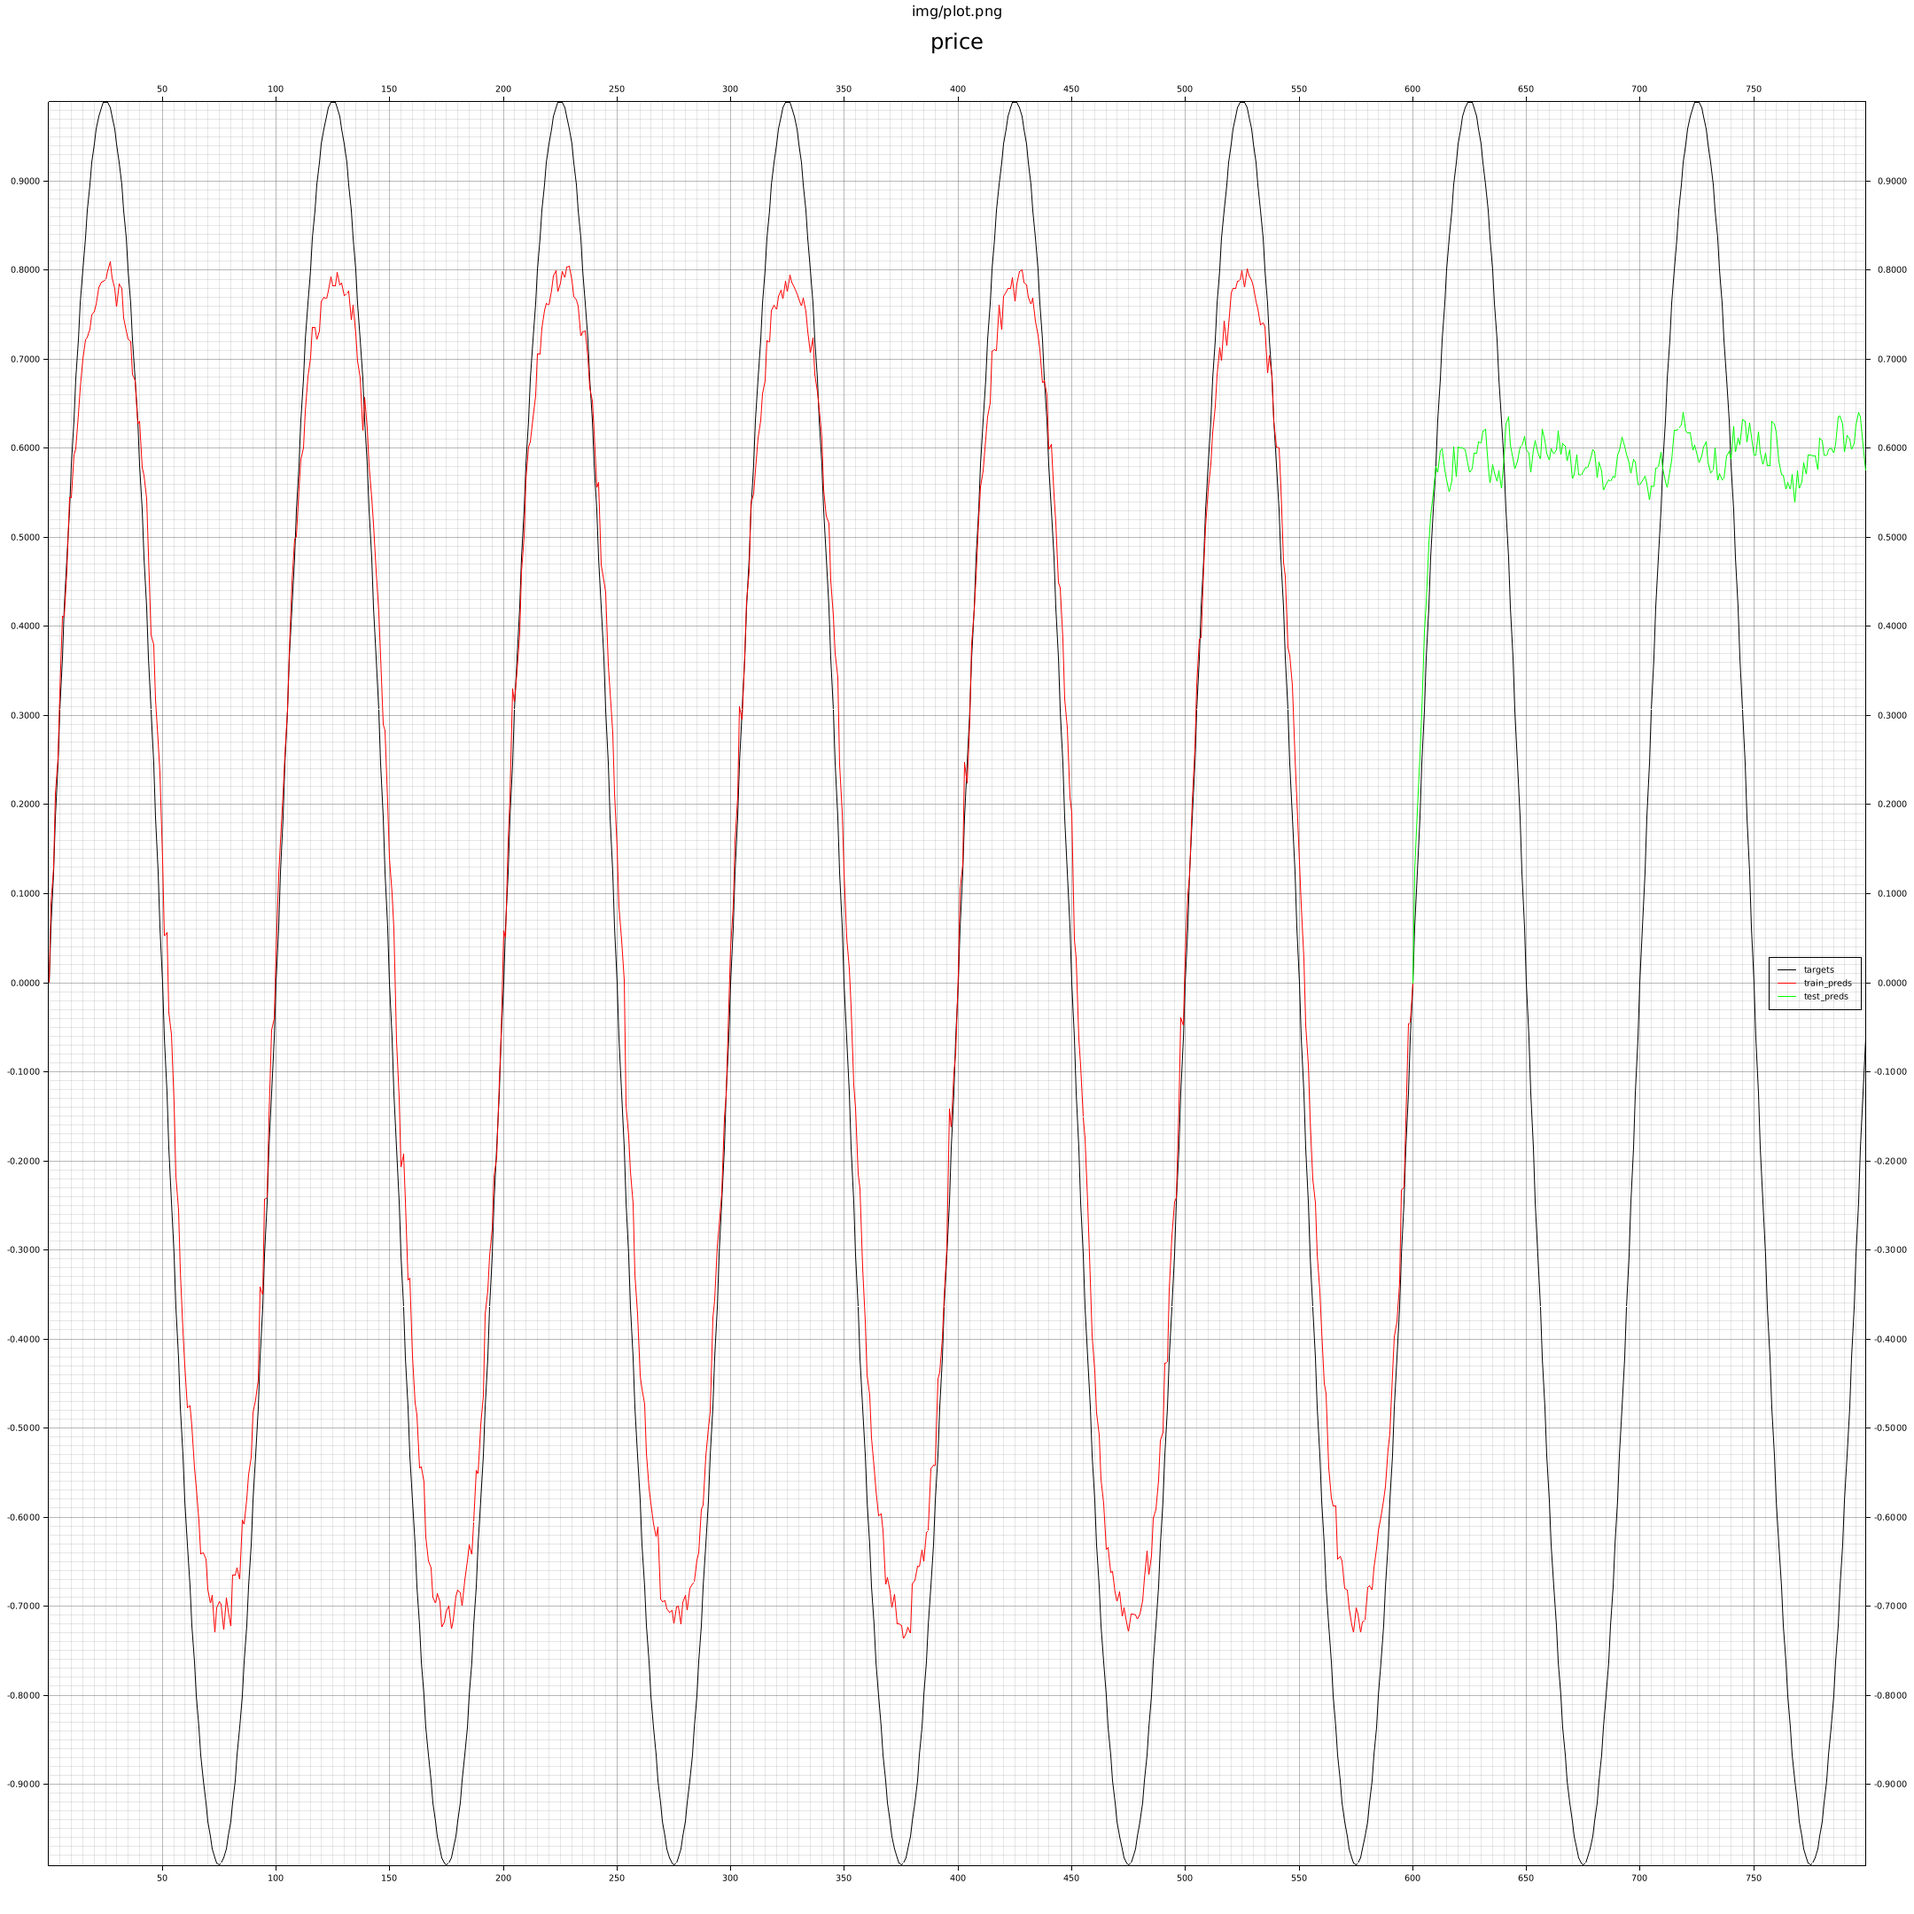
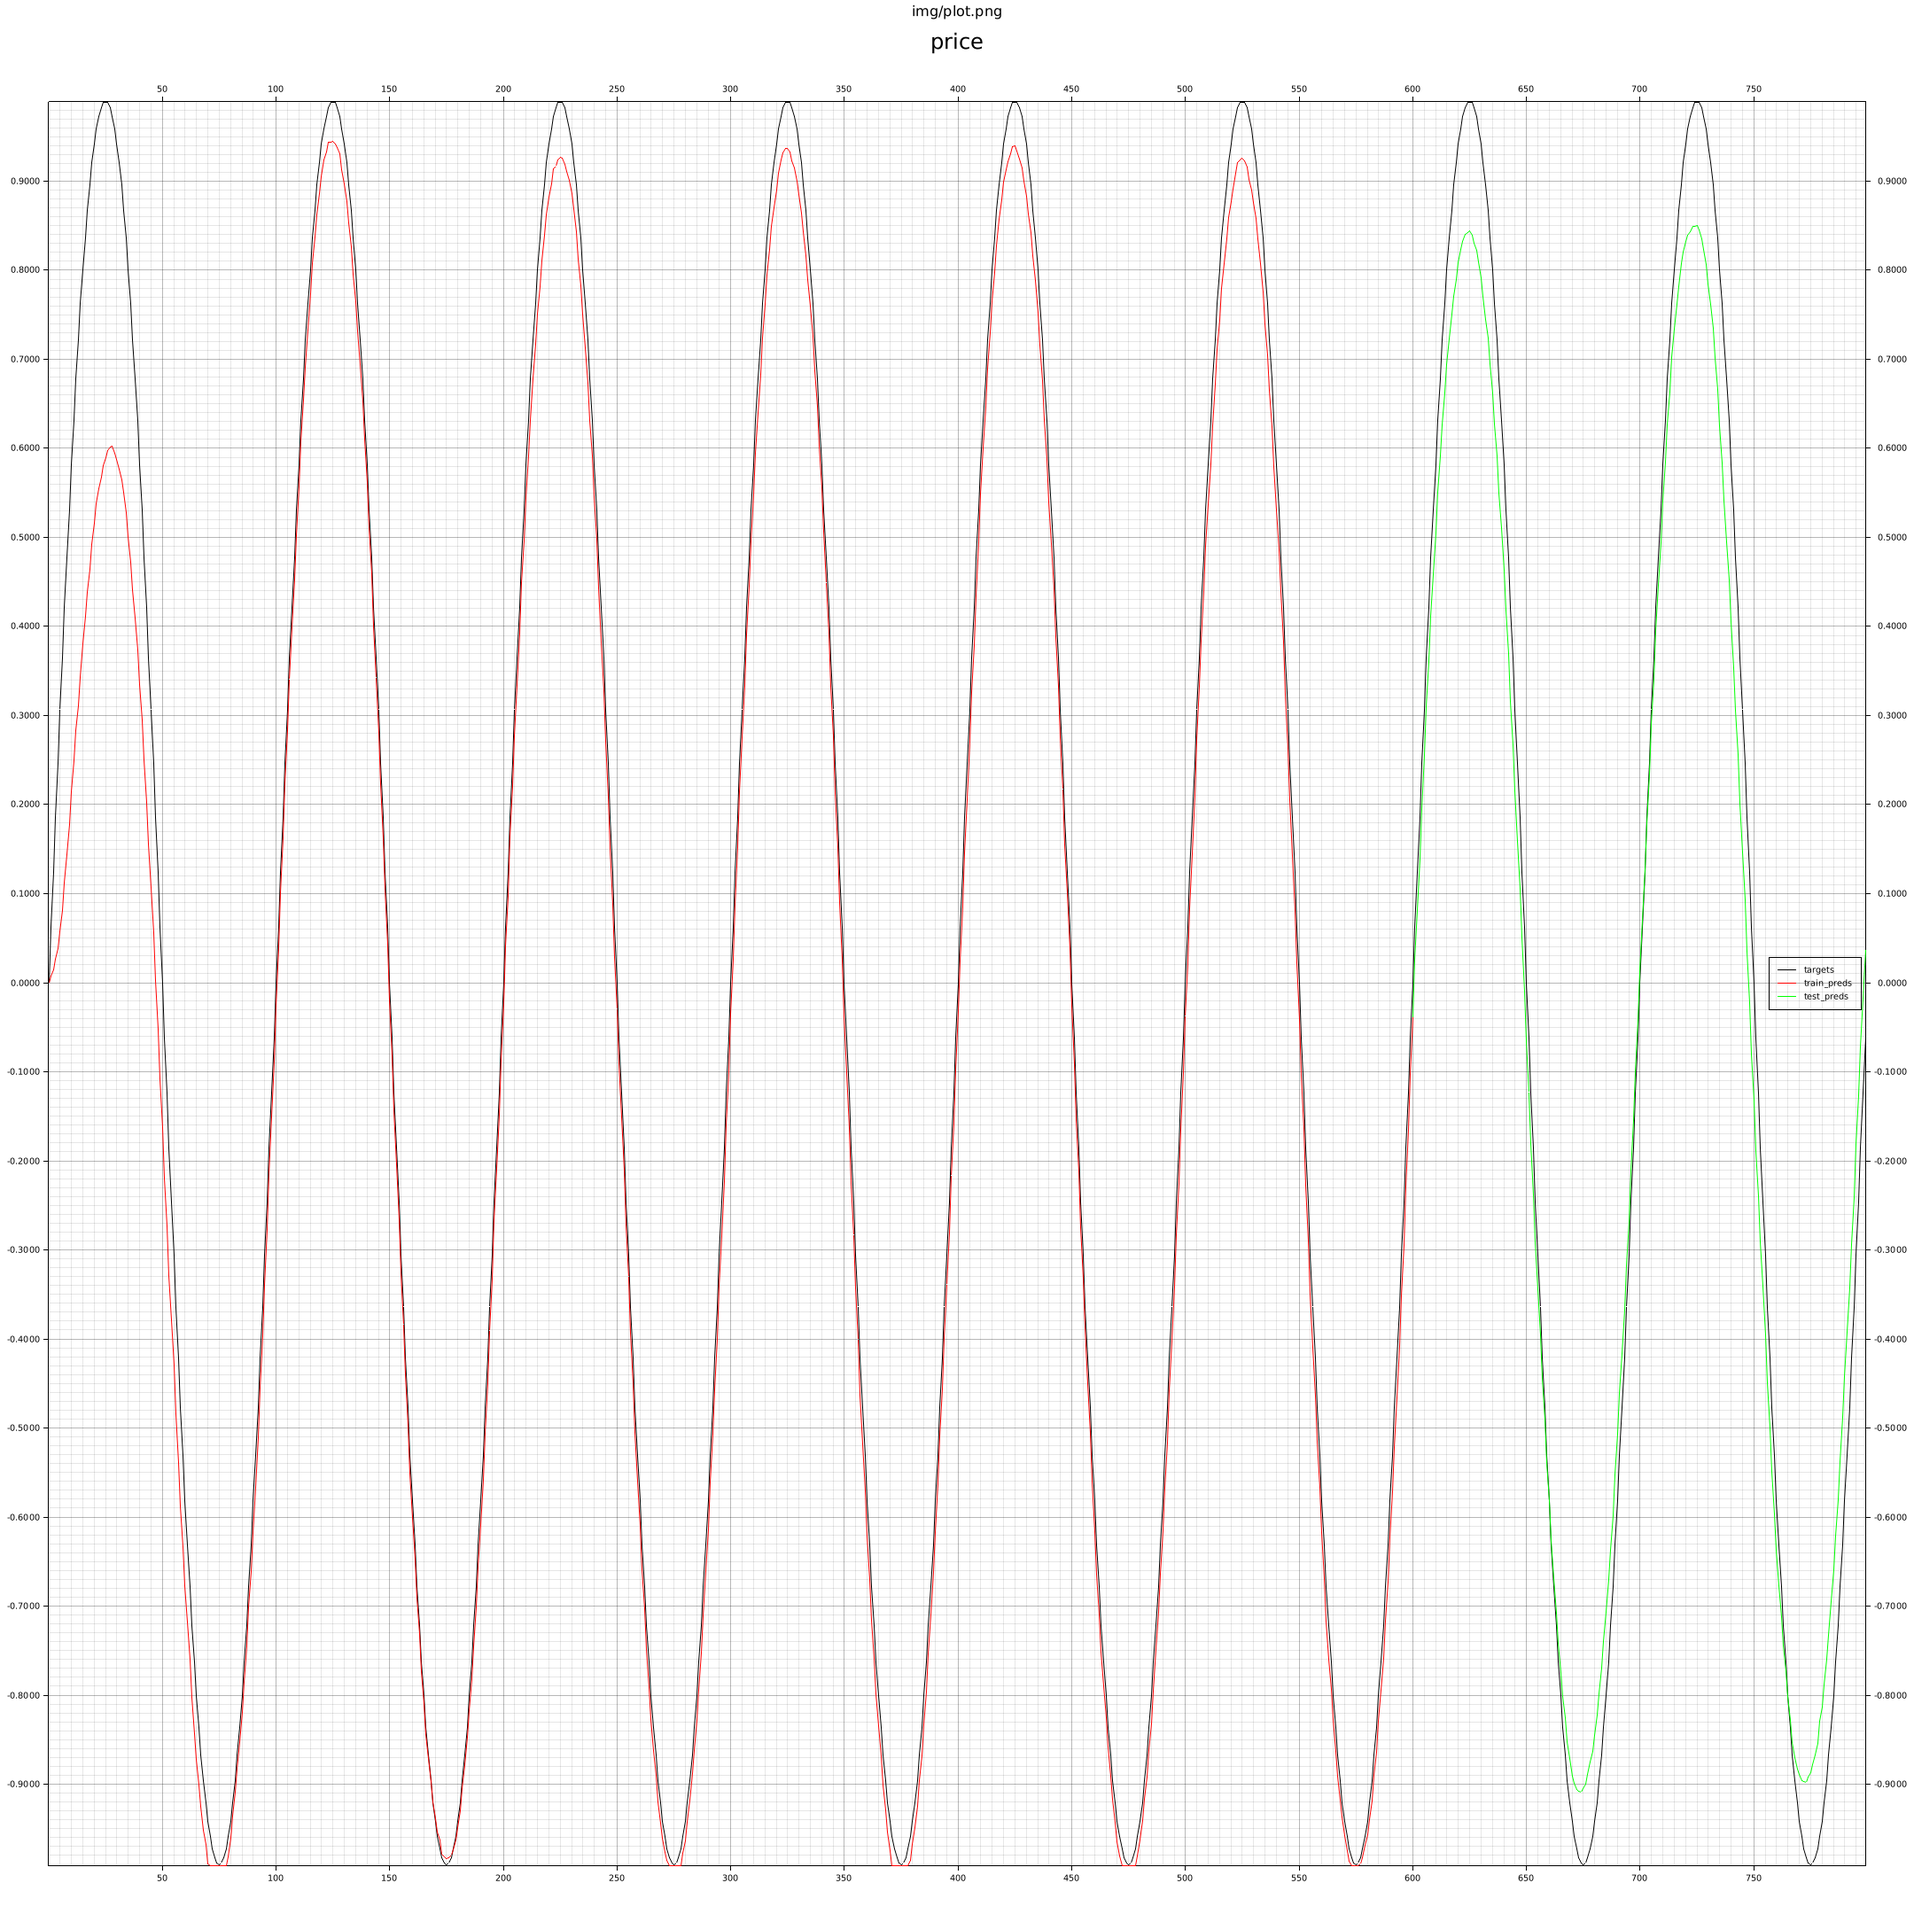
working dynamic system by using yet another state update equation

diff --git a/src/esn.rs b/src/esn.rs
@@ -257,13 +257,13 @@ impl ESN {
             Dim::from_usize(1),
             |_, _| (self.rng.generate::<f64>() * 2.0 - 1.0) * self.params.state_update_noise_frac,
         );
-        let mut new_state = (1.0 - self.params.leaking_rate) * input_state
+        let mut state_delta = input_state
             + self.params.leaking_rate * (&self.reservoir_matrix * &self.state)
             + (&self.feedback_matrix * prev_pred)
             + noise;
-        self.params.reservoir_activation.activate(new_state.as_mut_slice());
+        self.params.reservoir_activation.activate(state_delta.as_mut_slice());
 
-        self.state = new_state;
+        self.state = (1.0 - self.params.leaking_rate) * &self.state + state_delta;
     }
 
     /// Perform a readout operation

diff --git a/src/experiments/sine.rs b/src/experiments/sine.rs
@@ -27,19 +27,19 @@ pub(crate) fn start() {
     let params = Params {
         input_sparsity: 0.1,
         input_activation: Activation::Identity,
-        input_weight_scaling: 0.1,
-        input_bias_scaling: 0.5,
+        input_weight_scaling: 1.0,
+        input_bias_scaling: 0.2,
 
         reservoir_size: 80,
-        reservoir_fixed_in_degree_k: 5,
+        reservoir_fixed_in_degree_k: 3,
         reservoir_activation: Activation::Tanh,
 
         feedback_gain: 0.1,
         spectral_radius: 0.90,
         leaking_rate: 0.05,
         regularization_coeff: 0.1,
-        washout_pct: 0.2,
-        output_tanh: true,
+        washout_pct: 0.1,
+        output_tanh: false,
         seed: Some(0),
         state_update_noise_frac: 0.01,
     };
